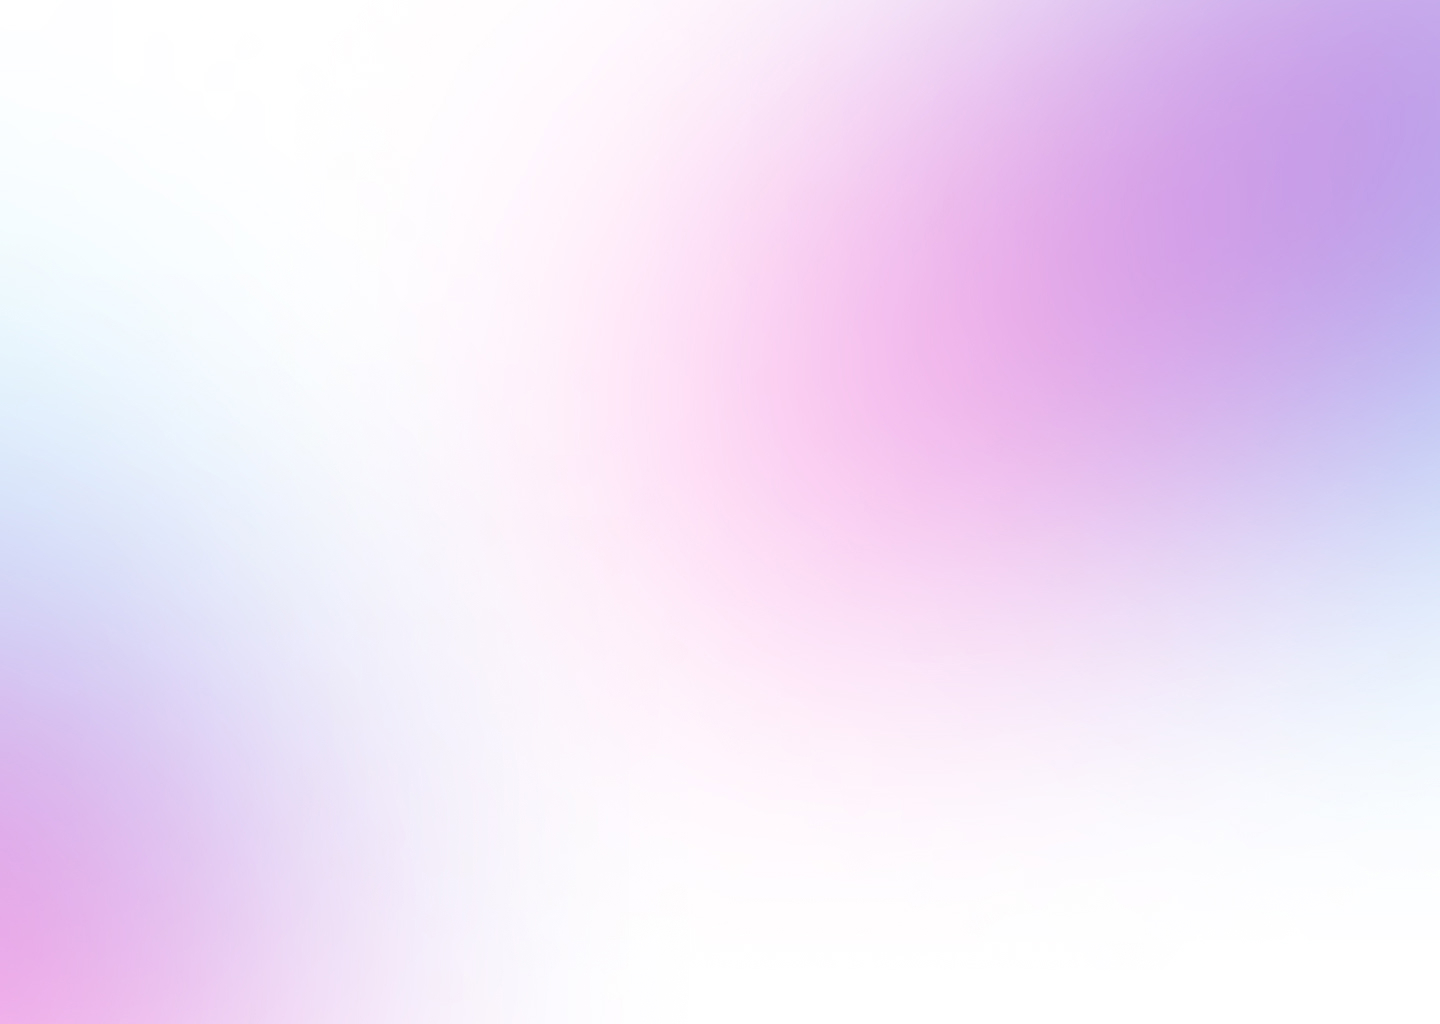
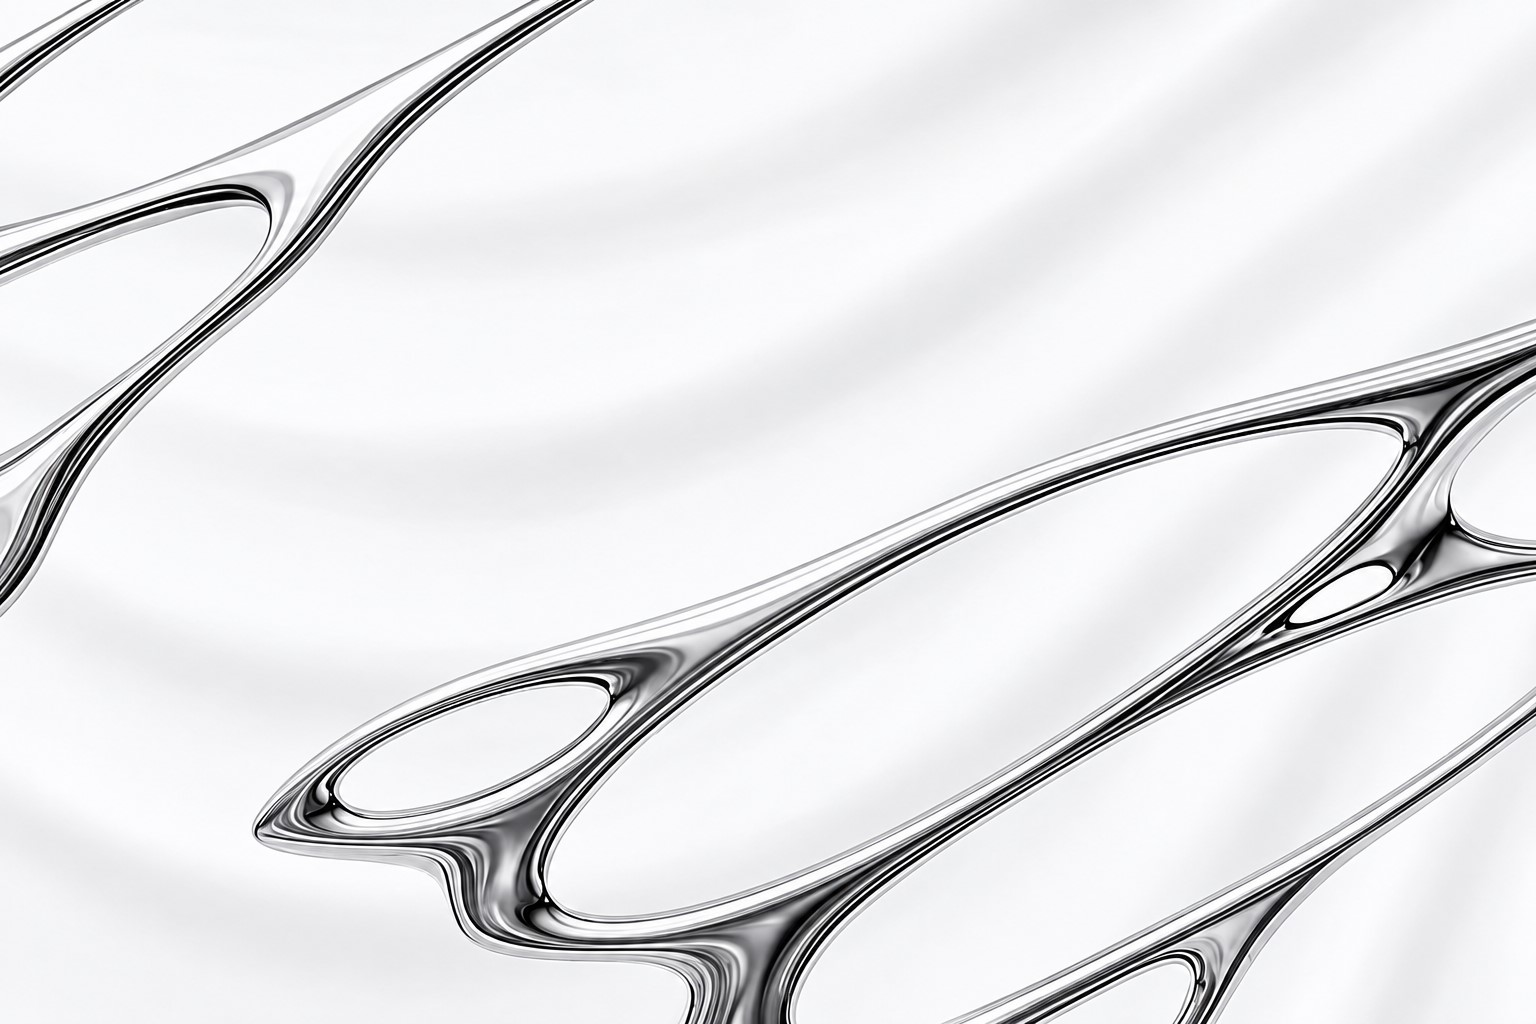
change background based on  media queries

diff --git a/style.css b/style.css
@@ -6,7 +6,7 @@
 
 :root {
   --text-color: #fff;
-  --bg-url: url("assets/background\ aiai\ se\ sabe.png");
+  --bg-url: url("assets/background\ aiai\ se\ sabe\ mobile.png");
   --stroke-color: rgba(255, 255, 255, 0.5);
   --surface-color: rgba(255, 255, 255, 0.05);
   --surface-color-hover: rgba(0, 0, 0, 0.02);
@@ -16,7 +16,7 @@
 
 .light {
   --text-color: black;
-  --bg-url: url("assets/background\ chave2.png");
+  --bg-url: url("assets/background\ chave\ light\ mobile.png");
   --stroke-color: rgba(0, 0, 0, 0.5);
   --surface-color: rgba(0, 0, 0, 0.05);
   --surface-color-hover: rgba(0, 0, 0, 0.02);
@@ -29,7 +29,7 @@ body {
   background-repeat: no-repeat;
   background-position: center;
   background-size: cover;
-  min-height: 100vh;
+  height: 100vh;
 }
 
 body * {
@@ -180,4 +180,15 @@ footer {
   text-align: center;
   padding: 24px 0;
   font-size: 16px;
+}
+
+/* media queries */
+@media (min-width: 700px) {
+  :root {
+    --bg-url: url("./assets/bg-desktop.jpg");
+  }
+
+  .light {
+    --bg-url: url("./assets/bg-desktop-light.jpg");
+  }
 }
